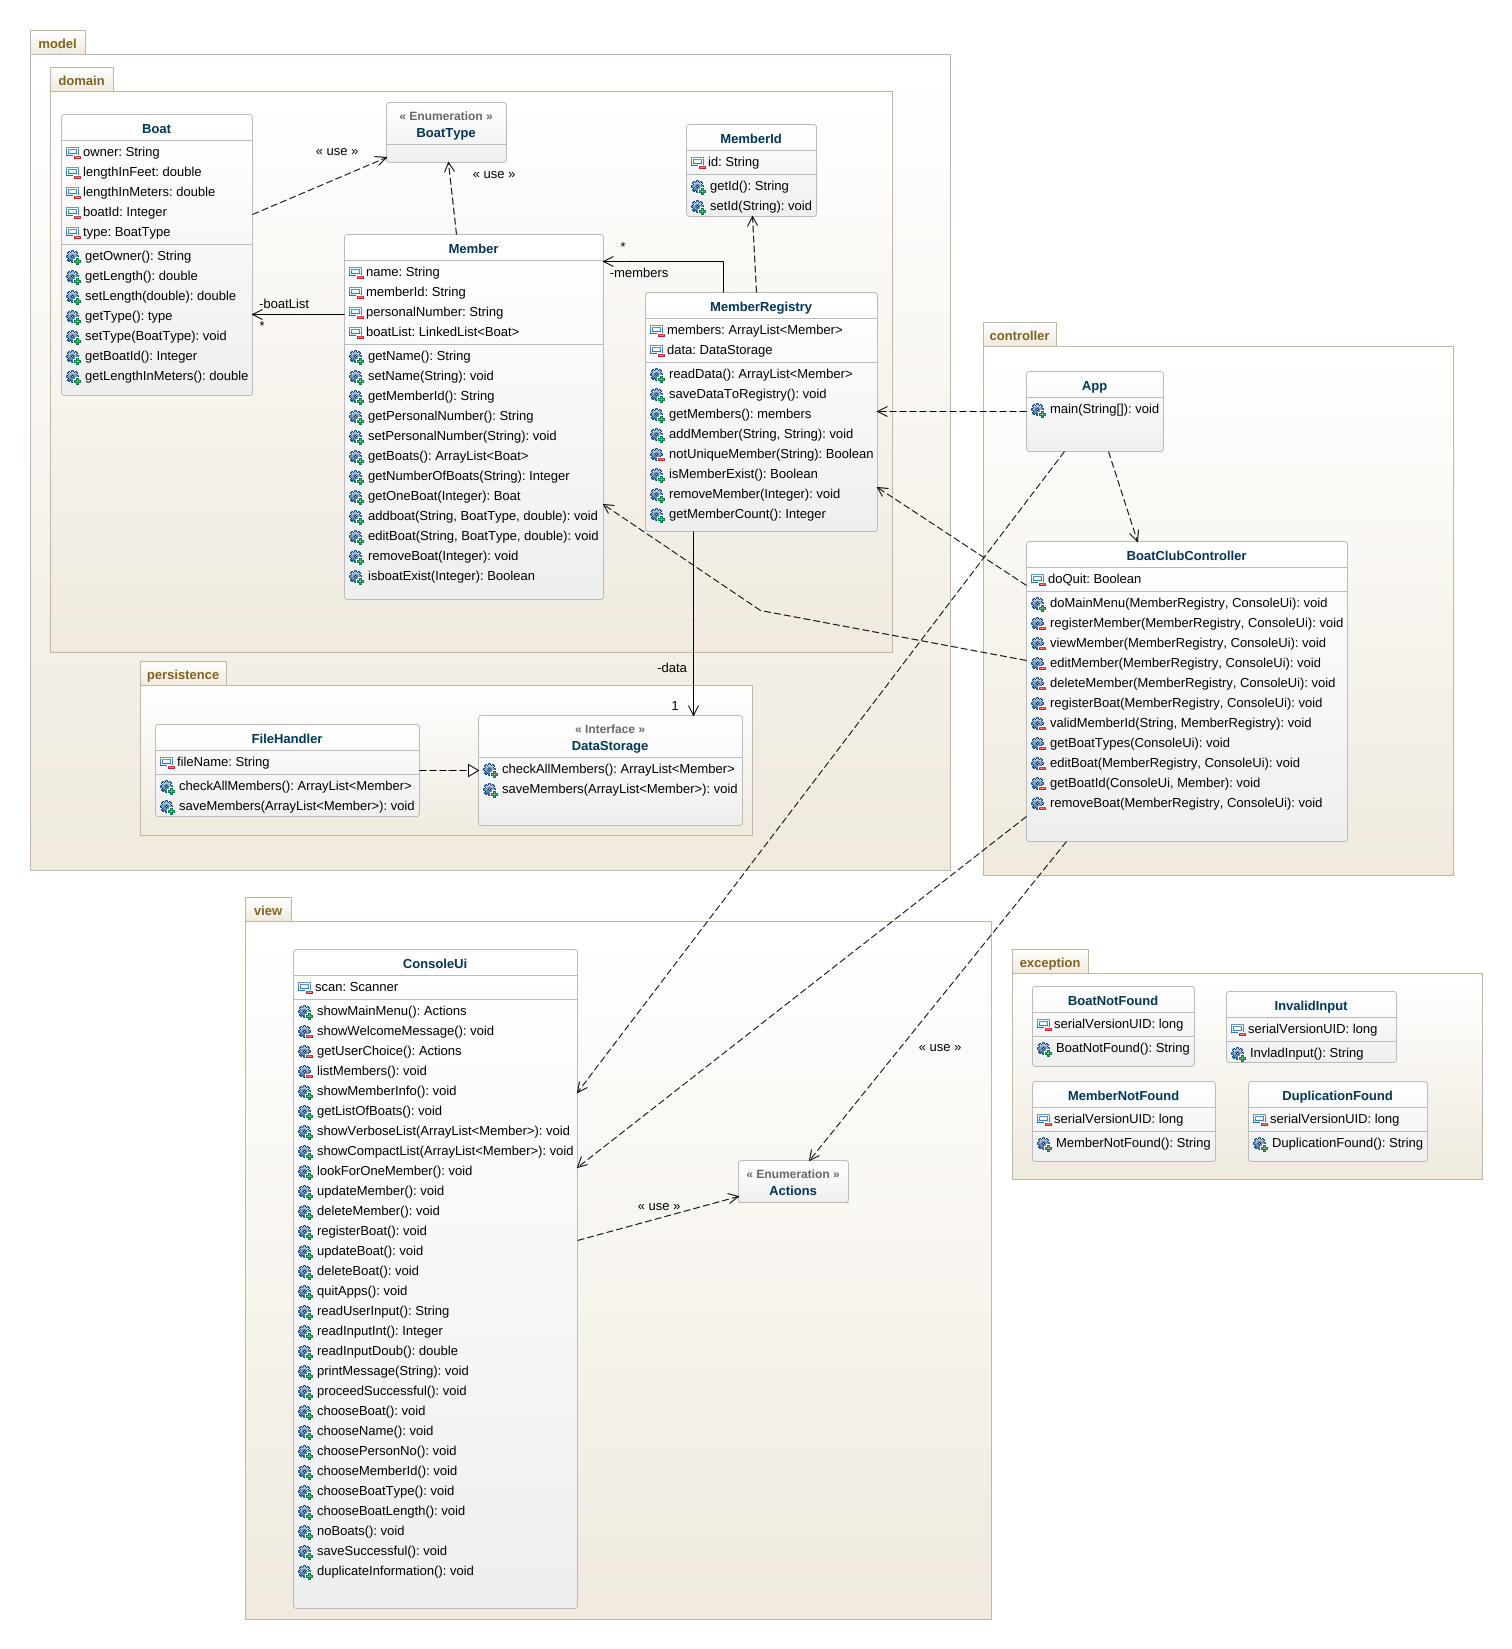
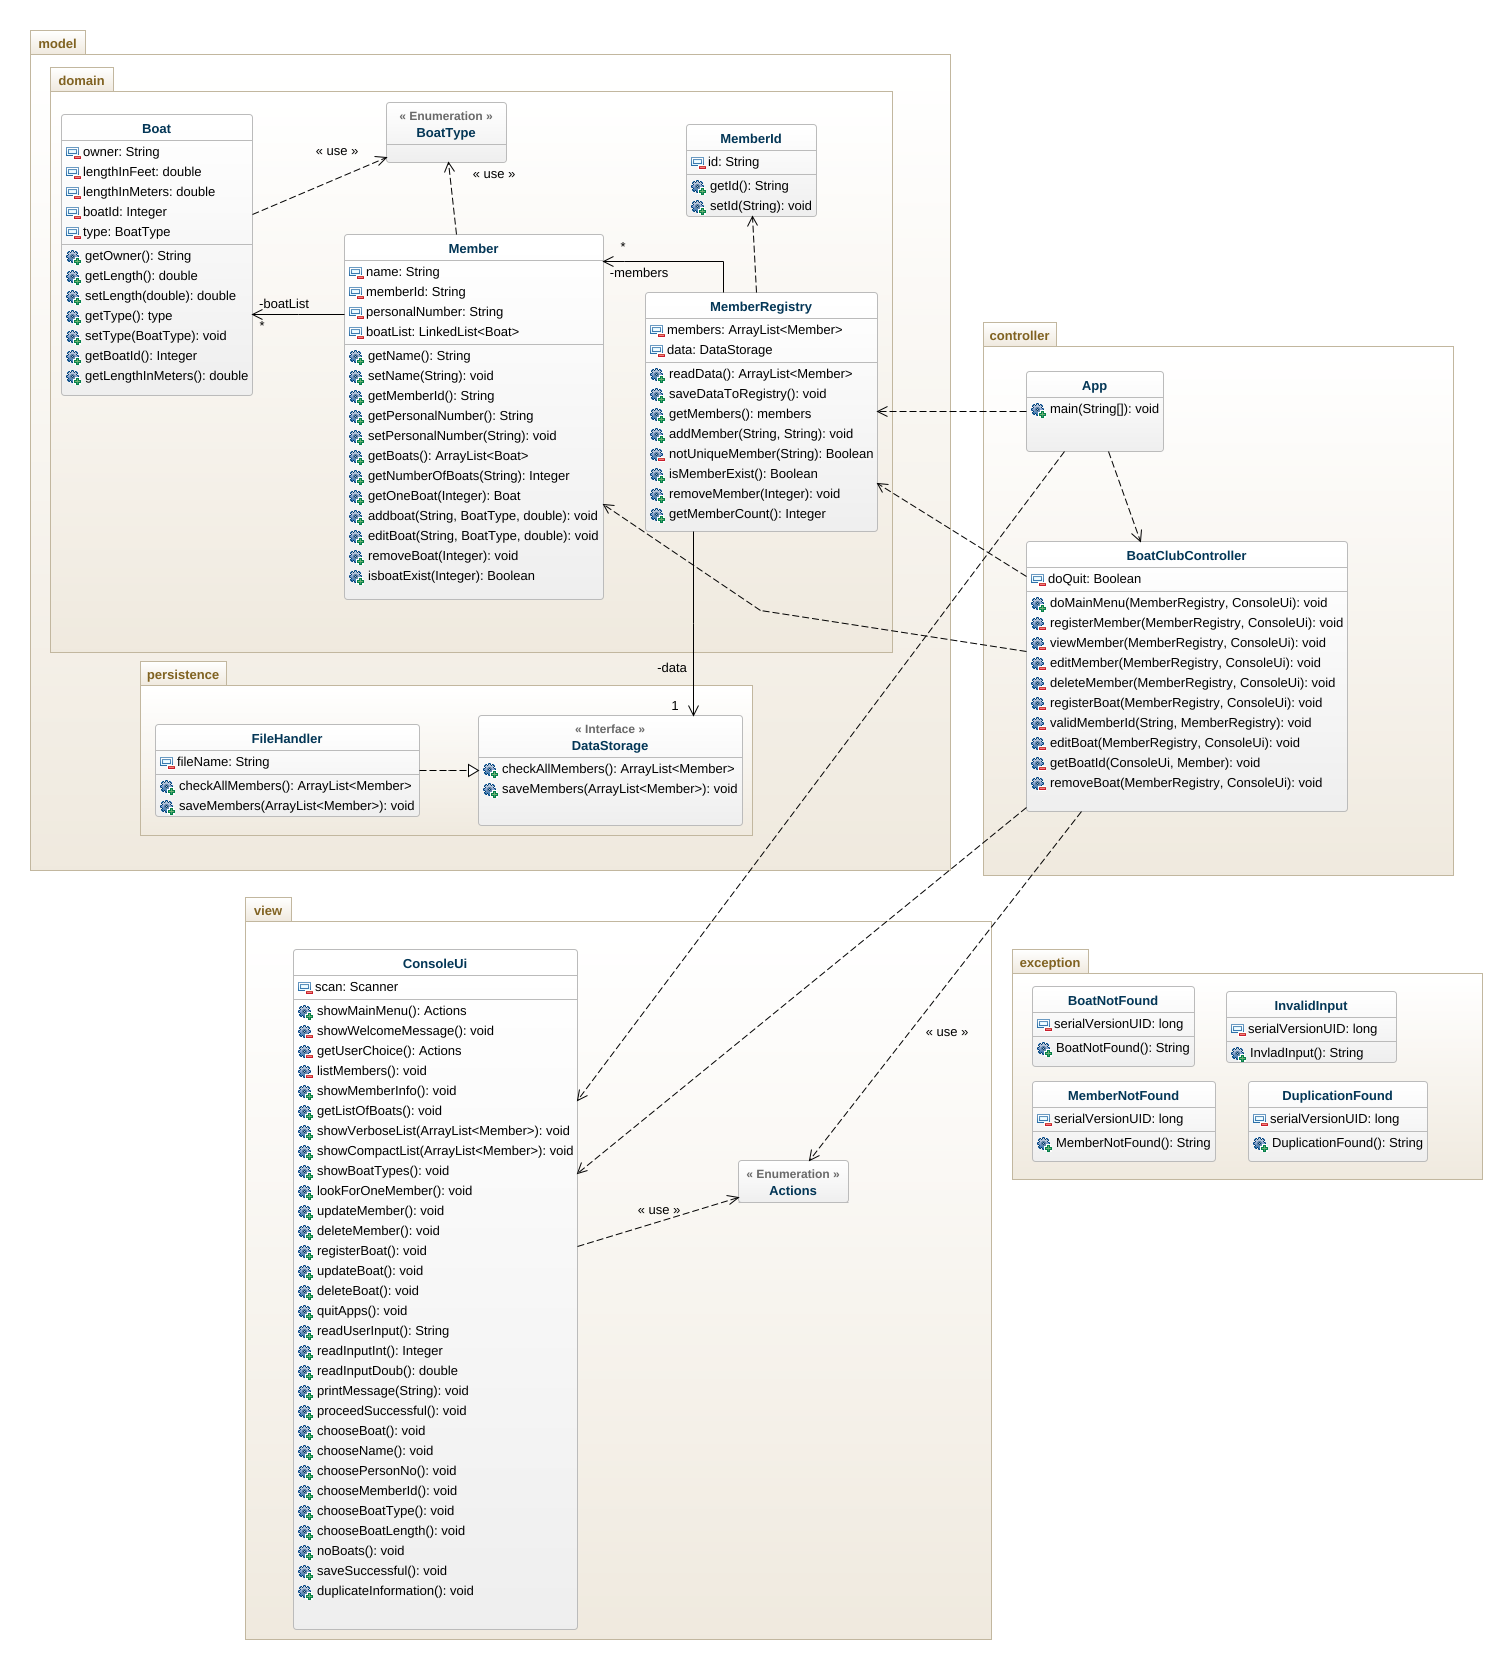
move method to view

diff --git a/src/main/java/controller/BoatClubController.java b/src/main/java/controller/BoatClubController.java
@@ -156,7 +156,7 @@ public class BoatClubController {
     }
     if (this.validMemberId(memberId, reg)) {
       // Check boat information
-      Boat.BoatType type = this.getBoatTypes(ui);
+      Boat.BoatType type = ui.showBoatTypes();
       ui.chooseBoatLength();
       double boatLength = ui.readInputDoub();
       for (Member m : reg.getMembers()) {
@@ -187,25 +187,6 @@ public class BoatClubController {
     return !valid;
   }
 
-  /** Method to get type of boat. */
-  private Boat.BoatType getBoatTypes(ConsoleUi ui) {
-    ui.chooseBoatType();
-    int counter = 1;
-    for (Boat.BoatType type : Boat.BoatType.values()) {
-      ui.printMessage(counter + ". " + type.toString());
-      counter++;
-    }
-
-    counter = ui.readInputInt() - 1;
-
-    // Preventing wrong choice for boat type
-    if (counter > 3) {
-      counter = 0;
-    }
-
-    return Boat.BoatType.values()[counter];
-  }
-
   /** Method to update one boat. */
   private void editBoat(MemberRegistry reg, ConsoleUi ui) {
     ui.updateBoat();
@@ -226,7 +207,7 @@ public class BoatClubController {
             if (b.getBoatId() == boatId) {
               ui.chooseBoatLength();
               double boatLength = ui.readInputDoub();
-              m.editBoat(boatLength,this.getBoatTypes(ui), b);
+              m.editBoat(boatLength, ui.showBoatTypes(), b);
               ui.proceedSucessful();
             }
           }

diff --git a/src/main/java/view/ConsoleUi.java b/src/main/java/view/ConsoleUi.java
@@ -144,7 +144,7 @@ public class ConsoleUi {
    * Method to show list of boats.
    * 
    */
-  public void getListOfBoats(Member m, Iterable<Boat> boats) {
+  public void getListOfBoats(Member m, ArrayList<Boat> boats) {
     if (m.getNumberOfBoats() == 0) {
       this.noBoats();
     } else {
@@ -203,6 +203,25 @@ public class ConsoleUi {
       compactList.append("===================================\n");
     }
     System.out.println(compactList);
+  }
+
+  /** Method to show type of boat. */
+  public Boat.BoatType showBoatTypes() {
+    this.chooseBoatType();
+    int counter = 1;
+    for (Boat.BoatType type : Boat.BoatType.values()) {
+      this.printMessage(counter + ". " + type.toString());
+      counter++;
+    }
+
+    counter = this.readInputInt() - 1;
+
+    // Preventing wrong choice for boat type
+    if (counter > 3) {
+      counter = 0;
+    }
+
+    return Boat.BoatType.values()[counter];
   }
 
   public void lookForOneMember() {

diff --git a/src/main/java/model/domain/MemberRegistry.java b/src/main/java/model/domain/MemberRegistry.java
@@ -4,8 +4,8 @@ import exception.DuplicationFound;
 import exception.MemberNotFound;
 import java.io.IOException;
 import java.util.ArrayList;
-import model.persistence.FileHandler;
 import model.persistence.DataStorage;
+import model.persistence.FileHandler;
 
 /** A class for CRUD functions with member's data and check if id is unique. */
 public class MemberRegistry {
